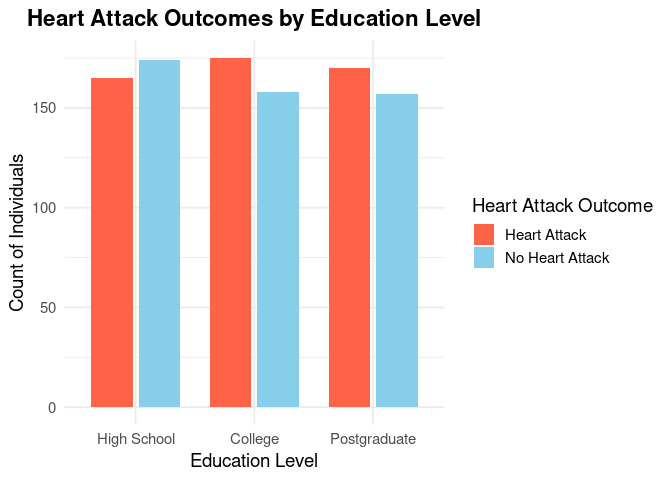
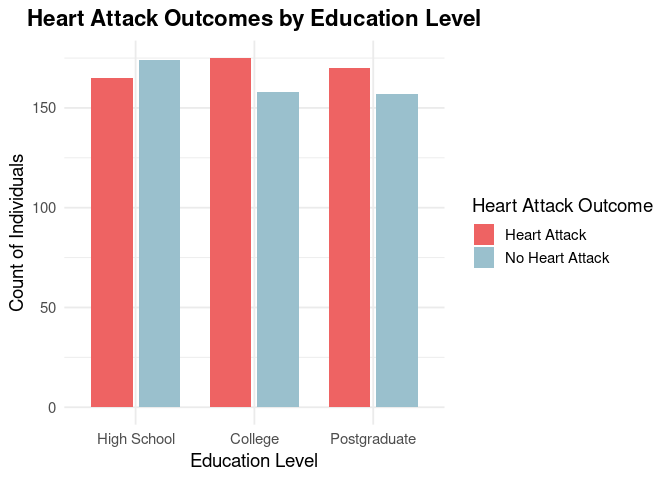
Final RMD Commit

Changed region(s): [[0.3125, 0.0938, 0.625, 0.875], [0.125, 0.125, 0.2812, 0.875], [0.6875, 0.4688, 0.75, 0.5625]]

diff --git a/Independant-Portfolio-Jaron-Dixon.md b/Independant-Portfolio-Jaron-Dixon.md
@@ -1,7 +1,7 @@
 Individual Portfolio
 ================
 Jaron Dixon
-2025-11-21
+2025-12-02
 
 - [ABSTRACT](#abstract)
 - [BACKGROUND](#background)
@@ -10,10 +10,9 @@ Jaron Dixon
   - [Hypothesis](#hypothesis)
   - [Prediction](#prediction)
 - [Methods](#methods)
-- [Analyses](#analyses)
+- [Results](#results)
   - [Figures](#figures)
-  - [Statistical Analysis](#statistical-analysis)
-- [DISCUSSION](#discussion)
+  - [Statistical Analyses](#statistical-analyses)
   - [Interpretations](#interpretations)
     - [Stress Level vs Heart Attack](#stress-level-vs-heart-attack)
     - [Education Level vs Heart
@@ -21,6 +20,7 @@ Jaron Dixon
     - [Gender Vs Heart Attack](#gender-vs-heart-attack)
     - [Stress Level, Education Level, and Gender vs Heart
       Attack](#stress-level-education-level-and-gender-vs-heart-attack)
+- [DISCUSSION](#discussion)
 - [CONCLUSION](#conclusion)
 - [REFERENCES](#references)
 
@@ -46,36 +46,36 @@ potential risk factor for heart attacks.
 
 # BACKGROUND
 
-Every year about 805,000 Americans have a heart attack. (Tsao et al.,
-2023) A heart attack can pose pain from a mild discomfort to severe
-crushing pain. (Kulkarni, 2025) This health risk has become like a
+Every year about 805,000 Americans have a heart attack (Tsao et al.,
+2023). A heart attack can pose pain from a mild discomfort to severe
+crushing pain (Kulkarni, 2025). This health risk has become like a
 ticking bomb being able to strike anyone. With this disease that has the
 ability to strike a variety of different individuals, research has begun
 to try and predict risk factors or conditions that can cause an
 individual to be more susceptible to having a heart attack. Long-term or
 chronic stress can lead to higher levels of inflammation in the body
-which leads to more plaque buildup in the arteries. (Katella, 2024)
-Additionally, stress also causes hormones such as adrenaline. (Katella,
-2024) Adrenaline increases mental alertness and the heart beats faster
-and raises blood pressure. (Katella, 2024) Prolonged stress leads to
+which leads to more plaque buildup in the arteries (Katella, 2024).
+Additionally, stress also causes hormones such as adrenaline (Katella,
+2024). Adrenaline increases mental alertness and the heart beats faster
+and raises blood pressure (Katella, 2024). Prolonged stress leads to
 heart damage.
 
 With this in mind we turn to what might cause an individual to have
 prolonged stress. Specifically, undergraduate students often experience
-stress related to adapting to higher education and managing coursework.
-(Pérez-Jorge, 2025) Postgraduate students also exhibit stress about
+stress related to adapting to higher education and managing coursework
+(Pérez-Jorge, 2025). Postgraduate students also exhibit stress about
 advanced research, thesis completion, and balancing academic work and
-professional responsibilities. (Pérez-Jorge, 2025) When it comes to
+professional responsibilities (Pérez-Jorge, 2025). When it comes to
 pursuing higher education there are a lot of stressful responsibilities
 for individuals. This could be a cause of having a risk of heart attacks
 because of the impact of the stress on the body.
 
 Another factor that might contribute to a higher risk of heart attacks
 is gender. Researchers have found that men are twice as likely to have a
-heart attack than women. (Harvard Health Publishing, 2016) There is also
+heart attack than women (Harvard Health Publishing, 2016). There is also
 some suspicion that hormones in women before menopause cause more
-defense for women against heart attacks. (Harvard Health Publishing,
-2016)
+defense for women against heart attacks (Harvard Health Publishing,
+2016).
 
 Knowing this information brings a lot of question of how much factors
 like stress, gender, or education could lead to an individual being more
@@ -101,20 +101,29 @@ obtaining a heart attack.
 
 # Methods
 
-The database chosen for this study was the Kaggle database, and the
-heart attack prediction set was the one chosen for this study. It was
-chosen because it had enough entries for our purposes and many variables
-to test. Once the variables were chosen, an excel spreadsheet was
-created to hold all the data. Models were made for each kind of test
-based on the type of data by testing variables against the outcomes of
-heart attack outcome. After all the variables were tested individually,
-they were then all tested at the same time vs heart attack outcome to
-test for a correlation between all of them. After which each model was
-examined visually and statistically based on the type of model created
-(ANOVA, linear model etc.) to determine the validity and significance of
-them.
+The data for this study were taken from the Kaggle Heart Attack
+Prediction dataset and imported into R for analysis. The variables used
+included the following: StressLevel, Gender, EducationLevel, and Outcome
+(heart attack vs. no heart attack). Each variable was cleaned and
+converted into the appropriate format for statistical testing.
 
-# Analyses
+Depending on the type of data being compared, different tests were
+utilized accordingly. In order to see if StressLevel was related to
+heart attack outcome, a logistic regression was performed because it is
+appropriate for a numeric predictor and a binary outcome. Chi-square
+tests were used to test whether EducationLevel or Gender were associated
+with heart attack occurrence since these variables are categorical.
+Fisher’s Exact Test was used instead when expected cell counts were too
+small for Chi-square assumptions.
+
+After individually testing each variable, a multivariable logistic
+regression was run to consider the combined impacts StressLevel, Gender,
+and EducationLevel have on heart attack occurrence. This allowed us to
+see whether these variables, taken together, improved the prediction of
+heart attack risk. Bar plots, violin plots, jitter plots, and heat maps
+were created to support the statistical results.
+
+# Results
 
 ## Figures
 
@@ -134,8 +143,8 @@ edu_counts$EducationLevel <- factor(
 ggplot(edu_counts, aes(x = EducationLevel, y = count, fill = Outcome)) +
   geom_col(position = position_dodge(width = 0.8), width = 0.7) +
   scale_fill_manual(values = c(
-    "No Heart Attack" = "skyblue",
-    "Heart Attack" = "tomato"
+    "No Heart Attack" = "lightblue3",
+    "Heart Attack" = "indianred2"
   )) +
   labs(
     title = "Heart Attack Outcomes by Education Level",
@@ -170,7 +179,7 @@ ggplot(heart_data, aes(x = Outcome, y = StressLevel, fill = Outcome)) +
 ``` r
 ggplot(heart_data, aes(x = StressLevel, y = Outcome, fill = Outcome)) +
   geom_density_ridges(alpha = 0.7, color = "black", scale = 1) +
-  scale_fill_manual(values = c("No Heart Attack" = "skyblue", "Heart Attack" = "tomato")) +
+  scale_fill_manual(values = c("No Heart Attack" = "lightblue3", "Heart Attack" = "indianred2")) +
   labs(
     title = "Distribution of Stress Levels by Heart Attack Outcome",
     x = "Stress Level (1–9)",
@@ -188,7 +197,7 @@ ggplot(heart_data, aes(x = StressLevel, y = Outcome, fill = Outcome)) +
 
     ## Picking joint bandwidth of 0.674
 
-![](Independant-Portfolio-Jaron-Dixon_files/figure-gfm/Stress%20vs%20Heart%20Attack%20Ridge%20Plot-1.png)<!-- -->
+![](Independant-Portfolio-Jaron-Dixon_files/figure-gfm/Stress%20vs%20Heart%20Attack%20Ridge%20Plot%20UNUSED-1.png)<!-- -->
 
 ``` r
 # Summarize counts
@@ -198,7 +207,7 @@ gender_counts <- heart_data %>%
 
 #Heat map
 ggplot(gender_counts, aes(x = Gender, y = Outcome, fill = count)) +
-  geom_tile(color = "white", size = 0.8) +  # white borders between tiles
+  geom_tile(color = "white", linewidth = 0.8) +  # white borders between tiles
   geom_text(aes(label = count), color = "white", size = 6, fontface = "bold") +
   scale_fill_viridis(option = "C", direction = -1) +  # smooth and modern gradient
   labs(
@@ -216,12 +225,6 @@ ggplot(gender_counts, aes(x = Gender, y = Outcome, fill = count)) +
     legend.text = element_text(size = 12)
   )
 ```
-
-    ## Warning: Using `size` aesthetic for lines was deprecated in ggplot2 3.4.0.
-    ## ℹ Please use `linewidth` instead.
-    ## This warning is displayed once every 8 hours.
-    ## Call `lifecycle::last_lifecycle_warnings()` to see where this warning was
-    ## generated.
 
 ![](Independant-Portfolio-Jaron-Dixon_files/figure-gfm/Gender%20vs%20Heart%20Attack%20Heat%20Plot-1.png)<!-- -->
 
@@ -253,7 +256,7 @@ ggplot(heart_data, aes(
 
 ![](Independant-Portfolio-Jaron-Dixon_files/figure-gfm/Stress%20Levels,%20Education%20Level,%20Gender%20and%20Heart%20Attack%20combined%20plot-1.png)<!-- -->
 
-## Statistical Analysis
+## Statistical Analyses
 
 ``` r
 heart_data$Outcome <- factor(heart_data$Outcome, levels = c("No Heart Attack", "Heart Attack"))
@@ -331,6 +334,12 @@ ggplot() +
   ) +
   theme_minimal(base_size = 14)
 ```
+
+    ## Warning: Using `size` aesthetic for lines was deprecated in ggplot2 3.4.0.
+    ## ℹ Please use `linewidth` instead.
+    ## This warning is displayed once every 8 hours.
+    ## Call `lifecycle::last_lifecycle_warnings()` to see where this warning was
+    ## generated.
 
 ![](Independant-Portfolio-Jaron-Dixon_files/figure-gfm/Stress%20Levels%20vs%20Heart%20Attack%20Logistic%20Regression-1.png)<!-- -->
 
@@ -495,26 +504,6 @@ anova(model_null, model, test = "LRT")
     ## 1       998     1384.5                     
     ## 2       994     1381.8  4   2.6161    0.624
 
-# DISCUSSION
-
-From the database we saw no statistical significance between the stress
-level an individual gave themselves and whether or not that person had a
-heart attack. This could be due to a number of different factors. Having
-an individual give their own assessment of stress might not be accurate
-to the stress they actually exhibit at the time. They could feel stress
-very casually or very intensely from person to person. Also, the stress
-level they gave does not reflect whether or not they have prolonged
-stress. They could be having a bad day that caused them to give a higher
-stress level on the day they were asked, but overall they do not have
-prolonged stress.
-
-When we looked at how education level could be tied to heart attacks, we
-found no statistically significant relationship between the two. A
-possible explanation of this is that education level and prolonged
-stress might not be as correlated as we thought. Even if school work
-leads to stress over a long period of time, having more education can
-lead to a more secure job environment and lower stress.
-
 ## Interpretations
 
 ### Stress Level vs Heart Attack
@@ -546,11 +535,48 @@ combined effects of stress levels, education levels, and gender, and
 heart attack occurrence (p = 0.624). This indicates that, collectively,
 these factors do not significantly influence heart attack risk.
 
+# DISCUSSION
+
+Limitations in the dataset, rather than the true relationship of these
+factors with heart attack risk, probably play a greater role in the
+nonsignificant findings of this study. The stress scores used in the
+analyses were self-reported and taken at only one moment in time, which
+likely does not reflect long-term or chronic stress-the type most
+commonly linked to heart disease. Because of this, the stress measure
+may not accurately capture the kind of stress that affects
+cardiovascular health.
+
+On the other hand, education level also may not demonstrate a clear
+pattern, because its association with heart health is complex. Higher
+levels of education may increase stressors but, in return, bring about
+better means of acquiring resources, lower long-term financial stress,
+and superior healthcare that may balance out the negative effect.
+
+Again, gender may not show strong patterns in this dataset if either the
+sample is limited, or other important factors such as age or medical
+history are not included. Gender differences in heart attack risk
+usually depend on these additional variables.
+
+The findings, therefore, must be interpreted with caution. For instance,
+the dataset may not provide sufficient information or detail for a full
+assessment of how stress, gender, and education affect heart attack
+risk. More comprehensive data would very likely give a fuller picture.
+
 # CONCLUSION
 
-In conclusion, we found no statistically significant data showing that
-heart attacks can be predicted by the lifestyle of being male, having a
-higher education, a higher stress level.
+In the present study, we found no evidence that stress level, gender,
+and education level significantly predict heart attack occurrence in
+this dataset. These findings should be interpreted with caution, since
+the measures available-especially the rating of stress-may not
+adequately reflect the long-term factors that determine cardiovascular
+health.
+
+Future research should also involve more specific clinical variables
+like age, cholesterol, blood pressure, and medical history, while also
+using more valid chronic-stress measures. The inclusion of a larger,
+more varied sample would also make it clearer whether these factors
+truly have little impact or whether the limitations of the present
+dataset prevented meaningful patterns from being found.
 
 # REFERENCES
 
